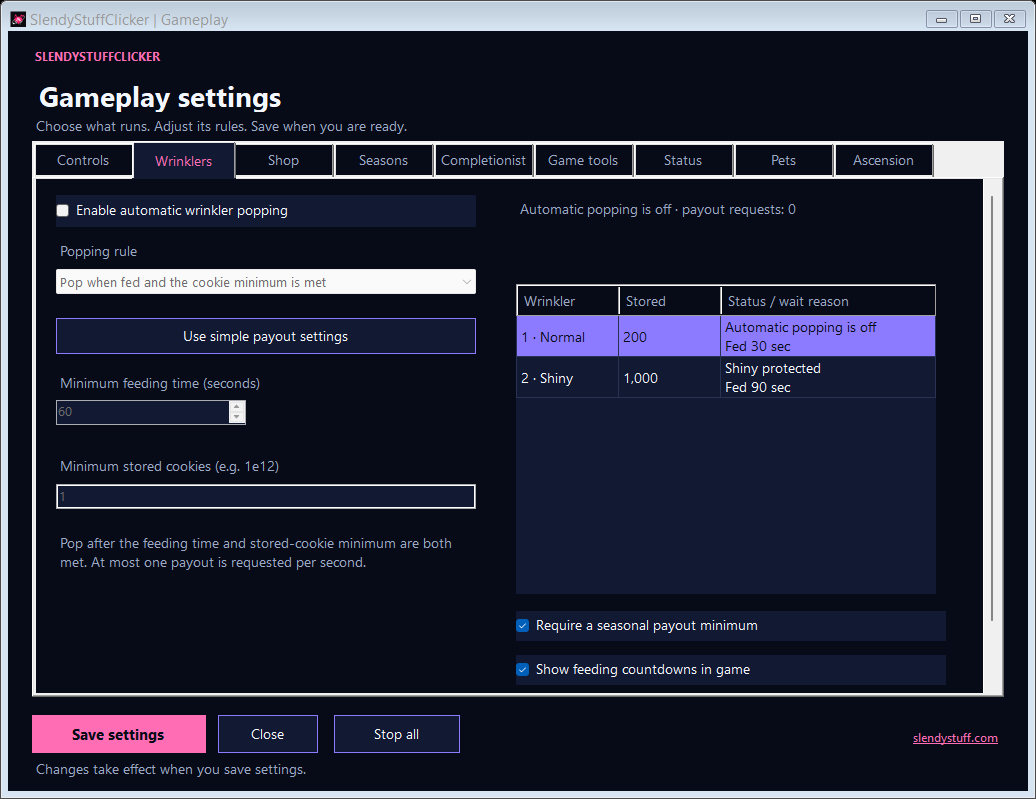
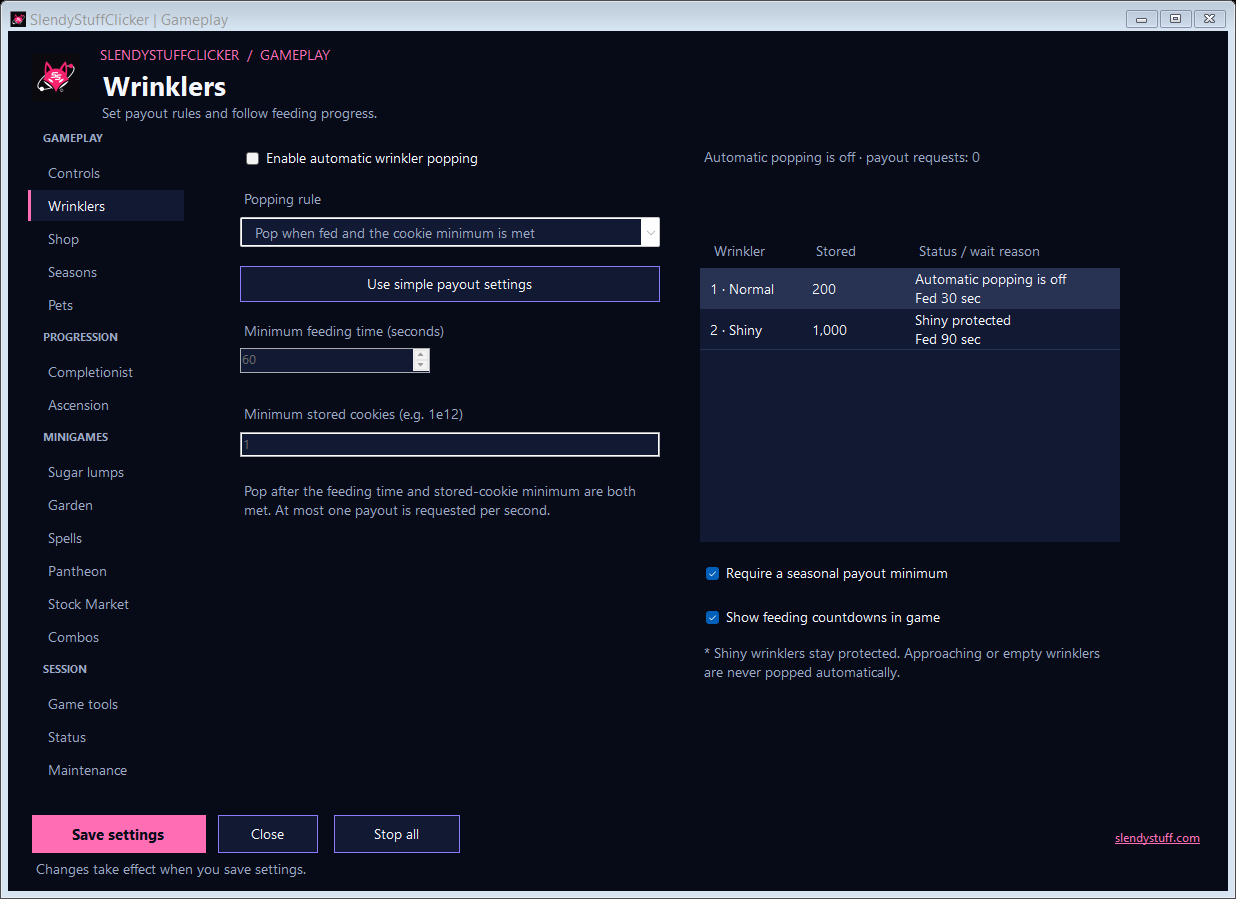
Update SlendyStuffClicker website and setup guide for v0.5.2.7

diff --git a/public/slendystuffclicker/setup/index.html b/public/slendystuffclicker/setup/index.html
@@ -102,16 +102,16 @@
   </div></header>
 
 <main class="clicker-shell guide-shell"><nav class="clicker-breadcrumb" aria-label="Breadcrumb"><ol><li><a href="/">Home</a></li><li><a href="/software.html">Software</a></li><li><a href="/slendystuffclicker/">SlendyStuffClicker</a></li><li aria-current="page">Setup guide</li></ol></nav>
-<section class="guide-intro"><p class="clicker-kicker">FREE WINDOWS APP + STEAM MOD · v0.5.2.5</p><h1>How to set up a Cookie Clicker auto clicker for Steam.</h1><p>Pair SlendyStuffClicker with the game, choose your settings and keep your mouse available for other apps. This guide covers the Steam edition on 64-bit Windows 10 and Windows 11.</p><a class="clicker-download" href="/slendystuffclicker/">Get the free EXE and release notes ↗</a></section>
+<section class="guide-intro"><p class="clicker-kicker">FREE WINDOWS APP + STEAM MOD · v0.5.2.7</p><h1>How to set up a Cookie Clicker auto clicker for Steam.</h1><p>Pair SlendyStuffClicker with the game, choose your settings and keep your mouse available for other apps. This guide covers the Steam edition on 64-bit Windows 10 and Windows 11.</p><a class="clicker-download" href="/slendystuffclicker/">Get the free EXE and release notes ↗</a></section>
 <section class="guide-video" aria-labelledby="video-title"><h2 id="video-title">Watch the 56-second walkthrough.</h2><video controls playsinline preload="none" width="1280" height="720" poster="/assets/slendystuffclicker/walkthrough-poster.png" style="width:100%;height:auto;display:block" aria-label="SlendyStuffClicker illustrated setup walkthrough"><source src="/assets/slendystuffclicker/walkthrough.mp4" type="video/mp4"><track kind="captions" src="/assets/slendystuffclicker/walkthrough.en.vtt" srclang="en" label="English" default><p>Your browser cannot play this video. <a href="/assets/slendystuffclicker/walkthrough.mp4">Download the walkthrough</a>.</p></video><p><a class="text-link" href="https://www.youtube.com/watch?v=rvGftZVjwWY" target="_blank" rel="noopener noreferrer">Watch on the SlendyStuff YouTube channel ↗</a></p><p class="small-note">This walkthrough was recorded with v0.5.1.0. The current preview adds dedicated gameplay pages; the setup steps still apply. This silent, captioned walkthrough uses genuine app screenshots and a clearly labeled isolated simulation. No live Steam game session or save is shown.</p><details class="transcript"><summary>Read the full video transcript</summary><p><strong>00s — Free auto clicking. Your mouse stays free.</strong><br>SlendyStuffClicker pairs a Windows EXE with a companion mod for Cookie Clicker on Steam. Free for Windows 10 / 11, 64-bit. Steam edition only. Public preview v0.5.1.0.</p><p><strong>08s — 1. Find your Steam game folder.</strong><br>Open Set up game. Use Steam → Properties → Installed Files → Browse if the folder is elsewhere. Usual path: C:\Program Files (x86)\Steam\steamapps\common\Cookie Clicker</p><p><strong>16s — 2. Enable the companion and restart.</strong><br>Add the companion. In the game, open Options → Manage mods, enable SlendyStuffClicker and fully restart. Wait for CONNECTED before choosing Start automation. A closed game cannot accept clicks.</p><p><strong>24s — 3. Choose the controls you want.</strong><br>Set your speed and run limit. Choose normal golden-cookie collection and reduced click effects. Clicking starts only when you choose. Actual speed depends on the game and your PC.</p><p><strong>32s — 4. Choose what auto-buy can spend.</strong><br>Select buildings and supported upgrade groups. Set cookies to keep in reserve, then enable auto-buy. Auto-buy is off by default. Save settings first; only selected affordable items are considered.</p><p><strong>40s — Actions happen inside the game.</strong><br>This isolated example runs the real companion against a synthetic game. The counters below are simulated. Simulation only: no Steam gameplay, live save or overnight stability test is shown.</p><p><strong>48s — Restart after long sessions.</strong><br>Save and fully restart both the game and clicker at least every six hours. Keep the app up to date. Get the free EXE, release notes and feedback form at slendystuff.com/slendystuffclicker/.</p></details></section>
 <div class="guide-layout"><nav class="guide-toc" aria-label="In this guide"><strong>IN THIS GUIDE</strong><a href="#before">Before you start</a><a href="#folder">Find your Steam folder</a><a href="#pair">Pair the companion</a><a href="#controls">Clicking and golden cookies</a><a href="#shop">Set up auto-buy</a><a href="#gameplay">Gameplay settings</a><a href="#background">Minimized play</a><a href="#troubleshooting">Connection troubleshooting</a><a href="#updates">Restart and update</a></nav><article class="guide-article">
 <section id="before"><h2>Before you start.</h2><p>Download the EXE from the <a href="/slendystuffclicker/">official SlendyStuffClicker page</a>. It links to the versioned GitHub release, release notes and current download identity. Browser and mobile versions of Cookie Clicker are not supported.</p><p>Keep the EXE in a folder you can write to. There is no installer or separate dependency download, but setup adds a companion mod to the game folder and the app stores local pairing settings and bounded logs. Back up your game save using the game’s save options before changing mods.</p><p>The current preview is unsigned. Windows may show an unknown-publisher warning or block it; some devices offer no override. Read the Windows notes on the download page. You do not need to disable Windows protection.</p></section>
-<section id="folder"><h2>1. Find the Cookie Clicker Steam folder.</h2><p>Open the EXE and choose <strong>Set up game</strong>. The usual folder is:</p><code class="guide-path">C:\Program Files (x86)\Steam\steamapps\common\Cookie Clicker</code><p>If Steam is installed on another drive, open the game in your Steam library, then choose <strong>Properties → Installed Files → Browse</strong>. Use that folder in setup. Select the game folder, rather than Steam’s top-level folder or a shortcut.</p><figure><img src="/assets/slendystuffclicker/setup.png?v=0.5.2.5" width="726" height="539" alt="SlendyStuffClicker game setup dialog with the usual Cookie Clicker Steam path and Add companion mod button" loading="lazy"><figcaption>Setup checks the selected game folder before adding the companion.</figcaption></figure></section>
+<section id="folder"><h2>1. Find the Cookie Clicker Steam folder.</h2><p>Open the EXE and choose <strong>Set up game</strong>. The usual folder is:</p><code class="guide-path">C:\Program Files (x86)\Steam\steamapps\common\Cookie Clicker</code><p>If Steam is installed on another drive, open the game in your Steam library, then choose <strong>Properties → Installed Files → Browse</strong>. Use that folder in setup. Select the game folder, rather than Steam’s top-level folder or a shortcut.</p><figure><img src="/assets/slendystuffclicker/setup.png?v=0.5.2.7" width="726" height="539" alt="SlendyStuffClicker game setup dialog with the usual Cookie Clicker Steam path and Add companion mod button" loading="lazy"><figcaption>Setup checks the selected game folder before adding the companion.</figcaption></figure></section>
 <section id="pair"><h2>2. Add and enable the companion mod.</h2><ol><li>Choose <strong>Add companion mod</strong> when setup recognizes the game folder.</li><li>In Cookie Clicker, open <strong>Options → Manage mods</strong> and enable SlendyStuffClicker.</li><li>Fully close and restart the game so it loads the new companion.</li><li>Keep the clicker open and wait for <strong>CONNECTED</strong>.</li></ol><p>Adding files does not start clicking. Choose <strong>Start automation</strong> only when you are ready. If you previously used an older companion, fully restart the game after updating it too.</p></section>
 <section id="controls"><h2>3. Set your click speed and golden-cookie controls.</h2><p>Use <strong>Clicks per second</strong> to choose a rate and <strong>Stop after clicks</strong> to set a run limit. A limit of 0 means unlimited. The visible controls offer up to 1,000 accepted clicks per second when the game’s click cooldown is overridden; actual performance depends on your PC and the game.</p><p><strong>Reduce automated click sounds and particles</strong> limits effects caused by automation. <strong>Collect golden cookies</strong> uses the game’s normal golden-cookie objects wherever they appear, including seasonal hearts and cookie-storm reward drops. Wrath cookies are off by default and can be enabled separately in Gameplay. Main clicks, golden collection and shop buying can run independently within the active automation session.</p><p>Watch <strong>Live status</strong> for connection state, clicks this run and purchase totals. Start with a modest rate, then adjust it while watching how the game responds.</p></section>
-<section id="shop"><h2>4. Choose buildings and upgrades for auto-buy.</h2><p>Open <strong>Auto-buy settings</strong>. Select the buildings and supported upgrade groups you want it to consider. Enter <strong>Cookies to keep in reserve</strong> if you want to preserve part of your balance, then save the settings.</p><figure><img src="/assets/slendystuffclicker/auto-buy.png?v=0.5.2.5" width="726" height="689" alt="Auto-buy settings showing building checkboxes, upgrade groups and a cookies-to-keep-in-reserve field" loading="lazy"><figcaption>Selection and reserve controls let you decide what automation can spend.</figcaption></figure><p>Enable auto-buy on the main screen when ready; it is off by default. While automation runs, it uses your chosen production-payoff or cheapest-first strategy, one purchase at a time. Open Gameplay to set building targets, caps, priorities and production-based reserves. It pauses in Sell mode and skips protected or unsupported purchases, including sugar-lump purchases and confirmations.</p></section>
-<section id="gameplay"><h2>Wrinklers, seasonal events and achievements.</h2><p>Open the Gameplay, seasons &amp; Completionist window. Each setting now has its own focused page, with checkboxes, fixed choices and labeled numbers. Choose Save settings to apply changes without closing the window.</p><p>For simple wrinkler payouts, choose <strong>Wrinklers → Use simple payout settings → Save settings</strong>. This waits for attachment, stored cookies and 60 seconds of observed feeding. The status table explains why a wrinkler is waiting. Shiny wrinklers stay protected.</p><p>Seasons shows event availability and missing collection items. Completionist lets you search unearned goals, view their requirements, pin a target and open filters when needed. Choose Suggest only for guidance or Assist with enabled controls for simple assistance.</p><figure><img src="/assets/slendystuffclicker/wrinklers.png?v=0.5.2.5" width="1036" height="799" alt="Dedicated wrinkler settings with fixed rule choices and live waiting reasons" loading="lazy"><figcaption>Choose a payout rule and see which conditions are keeping a wrinkler alive. This example uses synthetic progress.</figcaption></figure></section><section id="background"><h2>5. Minimize the game and keep your mouse free.</h2><p>After the companion connects and clicking starts, you can minimize Cookie Clicker and use your mouse in another app or game. SlendyStuffClicker sends actions inside the supported game instead of moving the system cursor or generating ordinary mouse clicks.</p><p>The game and clicker must remain running. A closed or suspended game cannot accept actions. If the computer sleeps or the connection is lost, check the connection and status before starting again. Global shortcuts are optional; leave them off if you want to avoid keyboard conflicts in another game.</p></section>
+<section id="shop"><h2>4. Choose buildings and upgrades for auto-buy.</h2><p>Open <strong>Auto-buy settings</strong>. Select the buildings and supported upgrade groups you want it to consider. Enter <strong>Cookies to keep in reserve</strong> if you want to preserve part of your balance, then save the settings.</p><figure><img src="/assets/slendystuffclicker/auto-buy.png?v=0.5.2.7" width="726" height="689" alt="Auto-buy settings showing building checkboxes, upgrade groups and a cookies-to-keep-in-reserve field" loading="lazy"><figcaption>Selection and reserve controls let you decide what automation can spend.</figcaption></figure><p>Enable auto-buy on the main screen when ready; it is off by default. While automation runs, it uses your chosen production-payoff or cheapest-first strategy, one purchase at a time. Open Gameplay to set building targets, caps, priorities and production-based reserves. It pauses in Sell mode and skips protected or unsupported purchases, including sugar-lump purchases and confirmations.</p></section>
+<section id="gameplay"><h2>Wrinklers, seasonal events and achievements.</h2><p>Open the Gameplay, seasons &amp; Completionist window. Use the grouped sidebar to open Controls, Wrinklers, Shop, Seasons, Completionist, minigames and session tools. Each page uses checkboxes, fixed choices and labeled numbers. Choose Save settings to apply changes without closing the window.</p><p>For simple wrinkler payouts, choose <strong>Wrinklers → Use simple payout settings → Save settings</strong>. This waits for attachment, stored cookies and 60 seconds of observed feeding. The status table explains why a wrinkler is waiting. Shiny wrinklers stay protected.</p><p>Seasons shows event availability and missing collection items. Completionist lets you search unearned goals, view their requirements, pin a target and open filters when needed. Choose Suggest only for guidance or Assist with enabled controls for simple assistance.</p><figure><img src="/assets/slendystuffclicker/wrinklers.png?v=0.5.2.7" width="1236" height="899" alt="Dedicated wrinkler settings with fixed rule choices and live waiting reasons" loading="lazy"><figcaption>Choose a payout rule and see which conditions are keeping a wrinkler alive. This example uses synthetic progress.</figcaption></figure><p><strong>Combos</strong> optionally waits for Frenzy, with or without a building bonus, before casting Force the Hand of Fate. Set mana, time and backfire limits. Godzamok sales need a separate opt-in and per-run limits; they remove buildings and do not repurchase them. Spell outcomes remain random.</p><p>Use the minigame pages for optional lump harvesting, missing-seed harvesting, spell assistance and budgeted stock trades. Review destructive actions individually in Game tools. In <strong>Maintenance</strong>, optionally schedule verified save-and-restart cycles and keep private save backups. New automation is off until enabled.</p></section><section id="background"><h2>5. Minimize the game and keep your mouse free.</h2><p>After the companion connects and clicking starts, you can minimize Cookie Clicker and use your mouse in another app or game. SlendyStuffClicker sends actions inside the supported game instead of moving the system cursor or generating ordinary mouse clicks.</p><p>The game and clicker must remain running. A closed or suspended game cannot accept actions. If the computer sleeps or the connection is lost, check the connection and status before starting again. Global shortcuts are optional; leave them off if you want to avoid keyboard conflicts in another game.</p></section>
 <section id="troubleshooting"><h2>If the companion does not connect.</h2><dl><dt>The setup folder is not recognized.</dt><dd>Use Steam’s Installed Files → Browse option again and select that game folder. Another Steam library may be on a different drive.</dd><dt>The app says it is waiting for the game.</dt><dd>Check that the companion is enabled in Manage mods and that you fully restarted the game after adding it. Keep both the game and clicker open.</dd><dt>Clicking stopped during a session.</dt><dd>Read Live status before restarting. A run limit, lost connection or resource guard can stop automation. If memory has grown, save and fully restart both apps instead of repeatedly pressing Start.</dd><dt>The game or mod changed after an update.</dt><dd>Check the versioned release notes and use Check for updates. Send the version, what you were doing and the visible status through <a href="/slendystuffclicker/#feedback">website feedback</a>. Leave out passwords, saves and personal details.</dd></dl></section>
-<section id="updates" class="guide-disclaimers"><h2>Updates and running notes</h2><p>* Save and fully restart the game and clicker at least every 12 hours, or sooner if memory grows or performance slows. Restarting only the clicker does not release the game’s memory. Resource guards reduce risk, but the preview does not guarantee unattended or overnight stability.</p><p><strong>Save &amp; restart game</strong> pauses automation, checks a local save by reading it back, reopens through Steam and resumes a previously running session after the fresh companion connects. If a stage fails, clicking stays stopped. A full live Steam restart cycle remains unverified in this public preview.</p><p>Use <strong>Check for updates</strong> to compare the app’s internal version with GitHub releases. Updates are manual: review the notes, download the new EXE, close the clicker and replace your copy. Save your game before updating its companion.</p><p>SlendyStuffClicker is an independent SlendyStuff tool and is not affiliated with or endorsed by Cookie Clicker’s developers.</p></section>
+<section id="updates" class="guide-disclaimers"><h2>Updates and running notes</h2><p>* Save and fully restart the game and clicker at least every 12 hours, or sooner if memory grows or performance slows. Restarting only the clicker does not release the game’s memory. Resource guards reduce risk, but the preview does not guarantee unattended or overnight stability.</p><p><strong>Save &amp; restart game</strong> pauses automation, checks a local save by reading it back, reopens through Steam and resumes a previously running session after the fresh companion connects. If a stage fails, clicking stays stopped. An optional schedule and private save backups are available in Gameplay → Maintenance.</p><p>Use <strong>Check for updates</strong> to compare the app’s internal version with GitHub releases. In v0.5.2.7, review the notes and choose <strong>Update this copy</strong> to approve replacing the EXE. The previous EXE is kept for recovery, profiles remain local and the app restarts stopped. For v0.5.2.5 or earlier, download v0.5.2.7 and replace the old EXE manually first. Save your game, update the companion and fully restart the game afterward.</p><p>SlendyStuffClicker is an independent SlendyStuff tool and is not affiliated with or endorsed by Cookie Clicker’s developers.</p></section>
 </article></div>    <footer class="clicker-footer"><p>A SlendyStuff Production <span>© 2026 SlendyStuff</span></p><a href="https://slendystuff.com">slendystuff.com ↗</a></footer>
 </main><script src="/site.js?v=20260808-1"></script><script src="/analytics.js?v=20261012-1" defer></script></body></html>

diff --git a/public/slendystuffclicker/index.html b/public/slendystuffclicker/index.html
@@ -56,7 +56,7 @@
       "applicationCategory": "UtilitiesApplication",
       "operatingSystem": "Windows 10 or Windows 11 (64-bit)",
       "softwareRequirements": "Cookie Clicker, Steam edition, with the SlendyStuffClicker companion mod enabled",
-      "softwareVersion": "0.5.2.5",
+      "softwareVersion": "0.5.2.7",
       "offers": {
         "@type": "Offer",
         "price": "0",
@@ -66,16 +66,18 @@
       "publisher": {
         "@id": "https://slendystuff.com/#organization"
       },
-      "screenshot": "https://slendystuff.com/assets/slendystuffclicker/app.png?v=0.5.2.5",
+      "screenshot": "https://slendystuff.com/assets/slendystuffclicker/app.png?v=0.5.2.7",
       "image": "https://slendystuff.com/assets/slendystuffclicker/share-card.png",
-      "releaseNotes": "https://github.com/SlendermanHG/slendystuff.com/releases/tag/v0.5.2.5",
+      "releaseNotes": "https://github.com/SlendermanHG/slendystuff.com/releases/tag/v0.5.2.7",
       "featureList": [
         "Auto click inside Cookie Clicker without moving the system mouse",
         "Golden cookies, seasonal hearts and cookie-storm rewards",
         "Wrinkler payout rules and live waiting reasons",
         "Seasonal progress and Completionist guidance",
         "Selected building and shop upgrade auto-buy",
-        "Manual update checks",
+        "Portable updates with your approval",
+        "Optional combo, spell, Garden and Stock Market assistance",
+        "Scheduled game restarts and private save backups",
         "One portable Windows EXE"
       ]
     },
@@ -119,11 +121,11 @@
         <p class="clicker-kicker">FREE WINDOWS APP + STEAM COMPANION MOD</p>
         <h1 id="product-title">Free auto clicker<br><span>for Cookie Clicker.</span></h1>
         <p class="clicker-lead">Keep your mouse free. SlendyStuffClicker is a free Cookie Clicker auto clicker for the Steam edition on Windows. Its companion mod sends actions inside the game, so you can leave it minimized and use your mouse in another game or app.</p>
-        <div class="download-row"><a id="download" class="clicker-download" aria-disabled="true" tabindex="-1">Download EXE <span id="download-version">v0.5.2.5</span></a><span class="portable-note">Free to use and share. <br>One EXE. No installer.</span></div>
+        <div class="download-row"><a id="download" class="clicker-download" aria-disabled="true" tabindex="-1">Download EXE <span id="download-version">v0.5.2.7</span></a><span class="portable-note">Free to use and share. <br>One EXE. No installer.</span></div>
         <p id="release-status" class="small-note" role="status">Checking the current public EXE and download details…</p>
         <a class="text-link" href="#getting-started">See setup and Windows notes <span aria-hidden="true">↘</span></a>
       </div>
-      <figure class="clicker-product"><div class="product-caption"><span>SLENDYSTUFFCLICKER</span><span>PREVIEW · v0.5.2.5</span></div><img src="/assets/slendystuffclicker/app.png?v=0.5.2.5" width="906" height="1013" alt="SlendyStuffClicker app with game connection, click control, live status, smart auto-buy, gameplay profiles, Completionist, feedback and update controls"><figcaption>Your mouse stays free. Clicking starts only when you choose.</figcaption></figure>
+      <figure class="clicker-product"><div class="product-caption"><span>SLENDYSTUFFCLICKER</span><span>PREVIEW · v0.5.2.7</span></div><img src="/assets/slendystuffclicker/app.png?v=0.5.2.7" width="906" height="1079" alt="SlendyStuffClicker app with game connection, click control, live status, smart auto-buy, gameplay profiles, Completionist, feedback and update controls"><figcaption>Your mouse stays free. Start manually, or opt into auto-start with a saved default profile.</figcaption></figure>
     </section>
     <section class="clicker-features" aria-label="App features">
       <article><span class="feature-index">01 / CONTROL</span><h2>Auto clicks &amp; golden cookies.</h2><p>Choose up to 1,000 accepted clicks per second, or stop after a set number. Collect golden cookies, seasonal hearts and cookie-storm rewards wherever they appear, while your mouse stays free. Ordinary wrath cookies remain a separate option.</p></article>
@@ -137,7 +139,8 @@
     </section>
     <aside class="clicker-disclaimers" aria-label="Running notes"><div>* Windows trust: This preview EXE is unsigned. Windows may show an unknown-publisher warning or block it. Check that it came from this page or its linked GitHub release before running it. You do not need to disable Windows protection. If Windows offers More info → Run anyway, that choice allows the app to run. Some devices do not offer that option. A warning is not a guarantee that a file is safe.</div><div>* Long sessions: Long game sessions can increase memory usage. Save and fully restart both the clicker and the game at least every 12 hours, or sooner if memory grows or performance slows. Restarting only the clicker does not release the game’s memory. Save &amp; restart game resumes a previously running session after the fresh companion reconnects. If saving, closing, opening or reconnecting fails, clicking stays stopped. You can then close and reopen the clicker yourself. Resource guards reduce risk; 12 hours is maintenance guidance, not a guarantee of unattended stability.</div></aside>
     <section class="clicker-section" id="gameplay-options" aria-labelledby="gameplay-options-title"><div><p class="clicker-kicker">PLAY YOUR WAY</p><h2 id="gameplay-options-title">Keep your goals in sight.</h2><p>Open Gameplay, seasons &amp; Completionist to set wrinkler rules, plan recurring events and choose your next supported achievement. Choose Suggest only for recommendations, or Assist with enabled controls for simple help. Pins and exclusions keep you in control; simple assistance uses the controls and shop selections you have enabled.</p><p>Neverclick, True Neverclick, Hardcore and simultaneous-cookie goals can hold conflicting actions. Unknown requirements stay marked for manual review. Achievements are earned through normal game actions; the app does not award them directly.</p></div><div><h3>Plan the season. Protect your progress.</h3><p>Track missing seasonal drops and purchases, native switch prices and upcoming planning dates. Use Wrinklers → Use simple payout settings → Save settings for payouts after attachment, stored cookies and 60 seconds of observed feeding. The live status explains keep limits and waits. Shiny wrinklers stay protected; exceptional pops need your approval. The live game decides which season is active.</p><p>Saved profiles keep your preferred settings locally. Reduced effects, bounded work and resource stops remain in place. * Plan to save and fully restart both the game and clicker at least every 12 hours; restart sooner if memory grows or performance slows. This is maintenance guidance, not a guarantee of unattended stability.</p></div></section>
-    <section class="clicker-section" aria-labelledby="updates-title"><div><p class="clicker-kicker">STILL GROWING</p><h2 id="updates-title">Updates, out in the open.</h2><p>Use Check for updates in the app to compare its internal version with GitHub releases. New releases use that same four-part version number.</p><p>Updates are manual: review the release, download the new EXE, close the clicker and replace your old copy. Save your game before updating its companion mod.</p><a class="text-link" href="https://github.com/SlendermanHG/slendystuff.com/releases/tag/v0.5.2.5" rel="noopener noreferrer" target="_blank">Read v0.5.2.5 release notes ↗</a><p><a class="text-link" href="https://github.com/SlendermanHG/slendystuff.com/releases" target="_blank" rel="noopener noreferrer">Browse previous releases ↗</a></p></div><div class="news-panel"><span class="feature-index">FROM SLENDYSTUFF</span><h3 id="news-title">v0.5.2.5 public preview</h3><p id="news-message">Read the v0.5.2.5 notes for features, setup and current limitations. This page also carries news about upcoming changes.</p><p id="news-date" class="small-note"></p></div></section>
+    <section class="clicker-section" id="advanced-gameplay" aria-labelledby="advanced-title"><div><p class="clicker-kicker">MORE WAYS TO PLAY</p><h2 id="advanced-title">Set up your next bonus window.</h2><p>Optional Combos assistance waits for Frenzy, or Frenzy plus a building bonus, before casting Force the Hand of Fate. Choose minimum mana, time remaining and backfire limits. Click Frenzy and Dragonflight are recognized, and other automatic spending pauses during the bonus window.</p><p>Godzamok sales need a separate opt-in, a selected building, a retained minimum and a per-run limit. Temple, Wizard towers and buildings with their own active building bonus stay protected. Repurchase is manual.</p><h3>Minigames, with your limits.</h3><p>Choose sugar-lump harvesting, mature missing-seed harvesting, spell assistance and budgeted Stock Market trading. Review Garden planting, soil and freeze actions or Pantheon changes before approving them. Completionist includes supported minigame milestones.</p><p>Maintenance can save, gracefully restart through Steam and resume, with optional private save backups. These controls are off until you enable them.</p><p class="small-note">* Spell outcomes remain random. Sales and sacrifices remove buildings or progress; review the release notes before enabling them.</p></div><figure class="clicker-product"><div class="product-caption"><span>GAMEPLAY / COMBOS</span><span>v0.5.2.7</span></div><img src="/assets/slendystuffclicker/combos.png?v=0.5.2.7" width="1236" height="899" alt="SlendyStuffClicker grouped Gameplay sidebar and separate spell strategy and optional Godzamok sales settings" loading="lazy"><figcaption>Choose what runs. Spell settings and optional sales stay separate; this example uses synthetic progress.</figcaption></figure></section>
+    <section class="clicker-section" aria-labelledby="updates-title"><div><p class="clicker-kicker">STILL GROWING</p><h2 id="updates-title">Updates, out in the open.</h2><p>Use Check for updates in the app to compare its internal version with GitHub releases. New releases use that same four-part version number.</p><p>In v0.5.2.7, review the release notes and choose Update this copy to approve downloading and replacing the EXE. Your previous copy is kept for recovery, profiles are retained, and the app restarts stopped. If you use v0.5.2.5 or earlier, download this release and replace your old EXE manually. Update the companion and fully restart the game afterward.</p><a class="text-link" href="https://github.com/SlendermanHG/slendystuff.com/releases/tag/v0.5.2.7" rel="noopener noreferrer" target="_blank">Read v0.5.2.7 release notes ↗</a><p><a class="text-link" href="https://github.com/SlendermanHG/slendystuff.com/releases" target="_blank" rel="noopener noreferrer">Browse previous releases ↗</a></p></div><div class="news-panel"><span class="feature-index">FROM SLENDYSTUFF</span><h3 id="news-title">v0.5.2.7 public preview</h3><p id="news-message">Refreshed Gameplay settings, optional combo assistance, more minigame controls and scheduled maintenance. Future portable updates can be approved inside the app.</p><p id="news-date" class="small-note"></p></div></section>
     <section class="clicker-section download-stats" aria-labelledby="stats-title"><div><p class="clicker-kicker">FREE TO SHARE</p><h2 id="stats-title">Every download counts.</h2><p>These are GitHub release-asset downloads, including repeat downloads and updates. They are not unique users, and no individual download history is shown.</p></div><div><p class="download-total" id="download-count">—</p><p id="stats-status" class="small-note" role="status">Checking published download counts…</p><ul id="version-counts" class="version-counts"></ul></div></section>
     <section class="clicker-comparison" aria-labelledby="comparison-title">
       <p class="clicker-kicker">CHOOSE HOW YOU PLAY</p><h2 id="comparison-title">How we compare with competitors.</h2>
@@ -148,7 +151,7 @@
         <tr><th scope="row">Your mouse</th><td>Stays free for another game or app. Actions happen inside the connected game, including while it is minimized and running.</td><td>General mouse clickers send cursor clicks. Game mods and browser extensions can also act inside the game without moving your mouse.</td></tr>
         <tr><th scope="row">Click controls</th><td>Choose your click rate and run limit, reduce click effects, and collect golden cookies, optional wrath cookies and reindeer independently.</td><td>Mouse clickers offer timing, hotkeys or button choices; some record click positions. Game tools may add golden-cookie collection and notifications.</td></tr>
         <tr><th scope="row">Shop purchases</th><td>Select buildings and supported upgrade groups. Choose estimated production payoff or cheapest first, building targets, caps and priorities while preserving your reserves.</td><td>Game-aware tools can buy buildings and upgrades; some plan purchases by production gain and payoff time. General mouse clickers do not make those shop decisions.</td></tr>
-        <tr><th scope="row">More game automation</th><td>Includes wrinkler rules, optional reindeer collection, seasonal progress and Completionist guidance. Advanced minigame automation is planned for a later preview.</td><td>Some game tools include wrinkler popping, reindeer collection, sugar-lump harvesting or spell casting. Options vary by tool.</td></tr>
+        <tr><th scope="row">More game automation</th><td>Includes wrinkler rules, seasonal rewards, Completionist guidance, optional combo and spell assistance, sugar-lump and Garden harvesting, budgeted stock trades, and scheduled restarts.</td><td>Some game tools include wrinkler popping, reindeer collection, sugar-lump harvesting or spell casting. Options vary by tool.</td></tr>
         <tr><th scope="row">Download &amp; setup</th><td>Free to use and share. One portable Windows EXE; Set up game adds the Steam companion.</td><td>Free alternatives include desktop clickers, browser extensions and game mods. Each has its own setup and supported game editions.</td></tr>
       </tbody></table></div>
       <p class="small-note">Check your game edition and the features you need before choosing. This comparison describes documented features, not measured speed, reliability or safety rankings.</p>
@@ -156,7 +159,7 @@
     </section>
     <section class="clicker-faq" aria-labelledby="faq-title">
       <p class="clicker-kicker">BEFORE YOU DOWNLOAD</p><h2 id="faq-title">Cookie Clicker auto clicker questions.</h2>
-      <details><summary>Is this Cookie Clicker auto clicker free?</summary><p>Yes. SlendyStuffClicker is free to download, use and share. The current release is v0.5.2.5, a growing public preview.</p></details>
+      <details><summary>Is this Cookie Clicker auto clicker free?</summary><p>Yes. SlendyStuffClicker is free to download, use and share. The current release is v0.5.2.7, a growing public preview.</p></details>
       <details><summary>Is it a Cookie Clicker mod or a Windows app?</summary><p>Both work together. You download one Windows EXE. Set up game adds the companion mod to your Steam game folder; enable it in Manage mods and fully restart the game to connect.</p></details>
       <details><summary>Can it click while minimized and leave my mouse free?</summary><p>Yes, while Cookie Clicker is running and connected. Actions happen inside the game rather than through system mouse input. You can use your mouse elsewhere, including another game. A closed or suspended game cannot accept clicks.</p></details>
       <details><summary>Does it work with the browser or mobile version?</summary><p>No. This release supports the Steam edition of Cookie Clicker on 64-bit Windows 10 and Windows 11.</p></details>

diff --git a/ops/SLENDYSTUFFCLICKER-RELEASE.md b/ops/SLENDYSTUFFCLICKER-RELEASE.md
@@ -1,11 +1,12 @@
 # SlendyStuffClicker release reference
 
-SlendyStuffClicker is distributed as one portable Windows EXE through versioned GitHub releases. The current public preview is [v0.5.2.5](https://github.com/SlendermanHG/slendystuff.com/releases/tag/v0.5.2.5); earlier previews remain available.
+SlendyStuffClicker is distributed as one portable Windows EXE through versioned GitHub releases. The current public preview is [v0.5.2.7](https://github.com/SlendermanHG/slendystuff.com/releases/tag/v0.5.2.7); earlier previews remain available.
 
 ## Published downloads
 
 | Version | File | Bytes | SHA-256 |
 | --- | --- | ---: | --- |
+| 0.5.2.7 | SlendyStuffClicker.exe | 1,228,288 | b7b426ecf2072176ccd82d99e5029304ac12639410ec55667b7ef5a5f7da7b7b |
 | 0.5.2.5 | SlendyStuffClicker.exe | 1,135,104 | f0af39b2cb11b82a65ea0012afce0c0ed81e674f0af7fd94ae930dd4233c0e14 |
 | 0.5.2.0 | SlendyStuffClicker.exe | 1,103,360 | b18a24248dc61e3dcbaa62613303679d9eddd182643d7eefb884832b11a68755 |
 | 0.5.1.0 | SlendyStuffClicker.exe | 1,007,616 | eb5770592c6a5c2a2c1c6044775e5b5db1e8a8942663c7fac226ae7a8d540dd5 |
@@ -16,19 +17,19 @@ Release tags use `v` followed by the EXE's exact four-part internal/file/product
 
 The version-bound publisher requires a release authorization manifest and verifies the binary hash, byte size and Windows metadata. An existing release asset cannot be replaced. The public website enables its download only when GitHub's asset identity matches `public/slendystuffclicker/product.json` and the generated stats are current.
 
-Binary publication and release-note editing are separate operations. Editorial changes do not replace EXEs, create versions or publish drafts. The automatic-update trust requirements remain independent of manual preview distribution.
+Binary publication and release-note editing are separate operations. Editorial changes do not replace EXEs, create versions or publish drafts. Portable update checks remain independent of release-note editing.
 
-The app checks public GitHub release metadata and opens the matching release page. It does not download or run an update automatically.
+The app checks public GitHub release metadata. In v0.5.2.7, users can review the notes and approve a portable update in the app. Expected repository URL, size, SHA-256 and embedded versions are verified before replacement. The previous EXE is retained for recovery, and the updated app starts stopped. Earlier releases require manual EXE replacement. No update installs without approval.
 
 ## Download counts and announcements
 
-`ops/refresh-clicker-stats.cjs` generates aggregate asset-download counts during site deployment and scheduled refreshes. Counts include repeats and updates, not unique people. API failures are shown as unavailable; stale data cannot enable a download.
+The live download endpoint refreshes verified GitHub asset counts with a five-minute cache. Site deployment also generates a static fallback through `ops/refresh-clicker-stats.cjs`. Counts include repeats and updates, not unique people. API failures are shown as unavailable; stale data cannot enable a download.
 
 Announcements use `public/slendystuffclicker/news.json`. The public reporting endpoint is `reports.slendystuff.com`; the page checks service availability before enabling feedback. The current EXE opens the website feedback page without uploading logs.
 
 ## Preview notes
 
-* Published EXEs are unsigned and updates are manual. Checksums identify bytes; they do not prove publisher identity or provide executable signing.
+* Published EXEs are unsigned and updates require approval. Checksums identify bytes; they do not prove publisher identity or provide executable signing.
 
 * Local automated tests cover supported rules and failure paths. Live Steam achievement delivery and representative long-session reliability are not certified by those tests.
 

diff --git a/README.md b/README.md
@@ -11,9 +11,11 @@ A free portable Windows auto clicker and companion mod for Cookie Clicker on Ste
 - Independent clicking, golden-cookie collection and selected shop purchases.
 - Seasonal hearts, cookie-storm rewards, optional wrath cookies and Christmas reindeer.
 - Wrinkler rules, shop targets and reserves, seasonal progress and Completionist guidance.
-- Saved profiles, live status, resource checks and a manual update check.
+- Optional combo and spell assistance, Garden and sugar-lump harvesting, and budgeted Stock Market trading.
+- Grouped Gameplay settings, saved profiles, live status and resource checks.
+- Scheduled game restarts, optional private save backups and portable updates with your approval.
 
-[Download and setup](https://slendystuff.com/slendystuffclicker/) · [Setup guide](https://slendystuff.com/slendystuffclicker/setup/) · [Current release: v0.5.2.5](https://github.com/SlendermanHG/slendystuff.com/releases/tag/v0.5.2.5) · [Previous releases](https://github.com/SlendermanHG/slendystuff.com/releases)
+[Download and setup](https://slendystuff.com/slendystuffclicker/) · [Setup guide](https://slendystuff.com/slendystuffclicker/setup/) · [Current release: v0.5.2.7](https://github.com/SlendermanHG/slendystuff.com/releases/tag/v0.5.2.7) · [Previous releases](https://github.com/SlendermanHG/slendystuff.com/releases)
 
 The download is one EXE. Companion setup adds a mod to the game folder; pairing settings, profiles and bounded logs stay on the computer. The release tag matches the app's internal four-part version.
 
